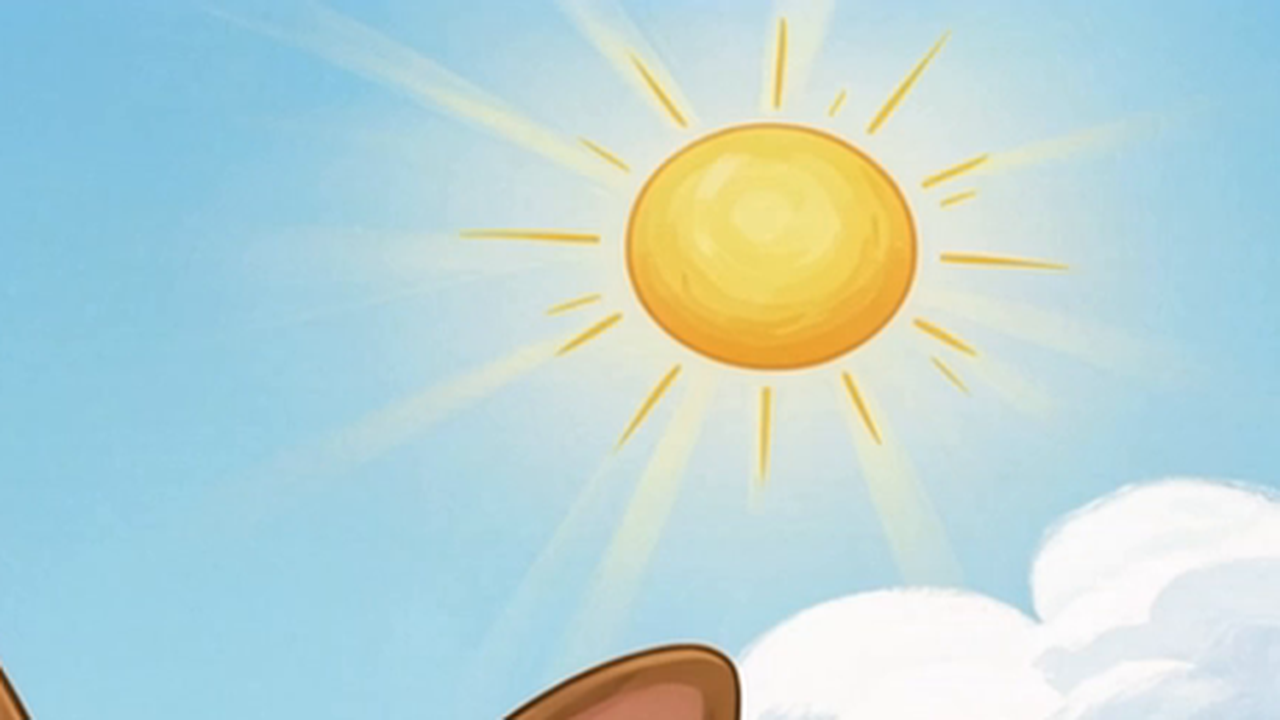
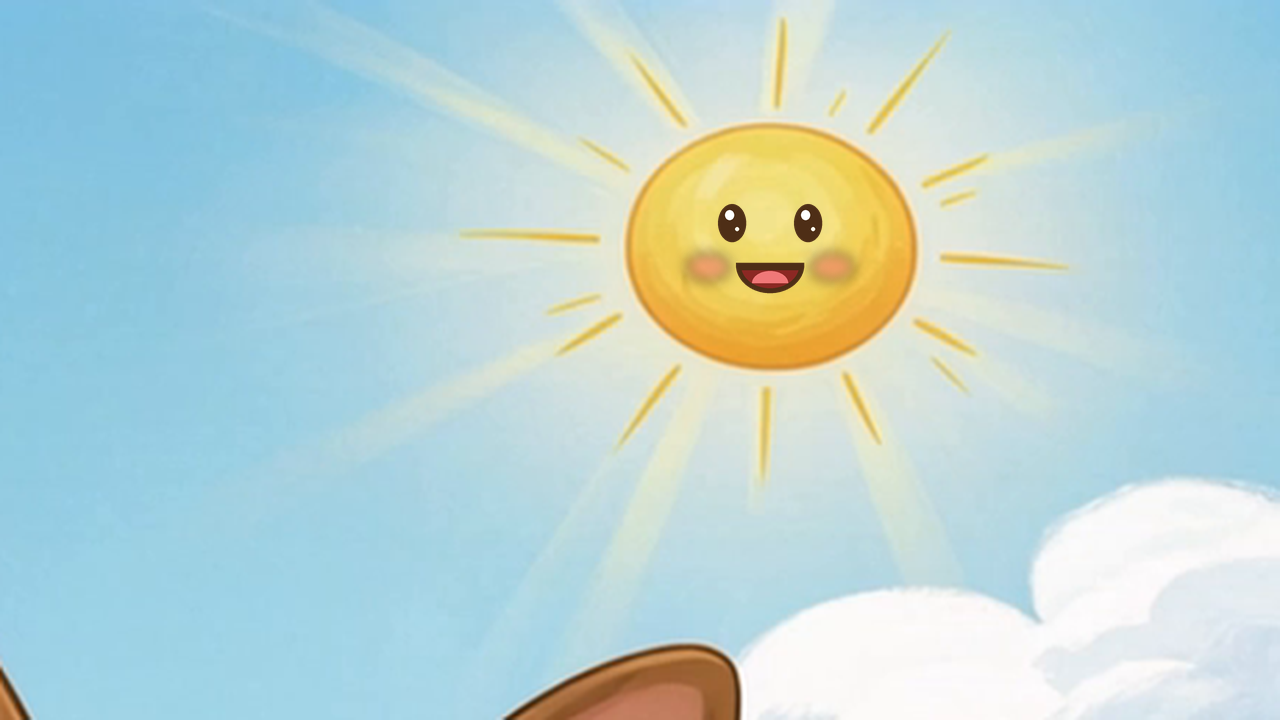
Sol start frames with a drawn cartoon face (day and sunset)
Claude-Session: https://claude.ai/code/session_016ZHPV2PkvWmVK4iqjR7WVX

Changed region(s): [[0.5312, 0.275, 0.6875, 0.4278]]

diff --git a/channel/episode-01-pio-pio-pajarito/ANIMATION-PLAN.md b/channel/episode-01-pio-pio-pajarito/ANIMATION-PLAN.md
@@ -7,10 +7,10 @@ Kling: 5-second video at 720p = **50 credits**. Every video uses a **free start 
 
 | # | Part of the episode | Start frame | Prompt (paste in Kling → Image to video) |
 |---|---|---|---|
-| 1 | ☀ Sol welcome (part 1) | `start-sol-narrator.png` | In the bright blue sky, a cute cartoon face appears on the sun: big friendly eyes, rosy cheeks and a smiling mouth. The sun looks at the viewers and talks happily, its mouth moving as it speaks, blinking and smiling, its soft golden rays gently swaying. Static shot. Children's storybook illustration style, hand-painted gouache and colored pencil texture, warm soft lighting. |
+| 1 | ☀ Sol welcome (part 1) | `start-sol-narrator.png` | The friendly sun with its cute cartoon face looks at the viewers and talks happily, its mouth moving as it speaks, blinking and smiling, its soft golden rays gently swaying. Static shot. Children's storybook illustration style, hand-painted gouache and colored pencil texture, warm soft lighting. |
 | 2 | ☀ Sol welcome (part 2) | last frame of video 1 | The sun with its cute cartoon face keeps talking happily to the viewers, its mouth moving as it speaks, blinking its big kind eyes and nodding, its golden rays gently swaying. Static shot. (same style text) |
 | 3 | 👩⚕ Rosa talks to Oryx and Luna | `start-v6-rosa-talks.png` | Rosa smiles warmly and talks kindly to Oryx and Luna, nodding her head, and then gives them a gentle thumbs up. Oryx and Luna listen to her, happy and proud. The gray baby bird stays calmly on the grass. Static shot. (same style text) |
-| 4 | 🌅 Sol goodbye at sunset | `start-sol-narrator.png` | The sky slowly turns warm orange and pink like a sunset, and a cute cartoon face appears on the sun: big friendly eyes, rosy cheeks and a smiling mouth. The sun talks softly to the viewers, its mouth moving as it speaks, then waves goodbye with one ray and gently closes its eyes to sleep. Static shot. (same style text) |
+| 4 | 🌅 Sol goodbye at sunset | `start-sol-sunset.png` | In the warm orange sunset sky, the friendly sun with its cute cartoon face talks softly to the viewers, its mouth moving as it speaks, then waves goodbye with one ray and gently closes its eyes to sleep. Static shot. (same style text) |
 | 5 | 🌳 Walk in the park | `start-park-oryx-luna.png` | Oryx crouches and gently touches the soft green grass with wonder, then looks at Luna and talks; Luna wags her tail and answers. Static shot. (same style text) |
 | 6 | 🦖 "¡RAWR!" | last frame of video 5 | Oryx jumps with joy, makes a playful dinosaur roar with little claw hands and wiggles his dinosaur tail; Luna barks happily. Static shot. (same style text) |
 | 7 | 🛸 Opening: Oryx arrives | last frame of the saucer clip | Oryx floats down gently in the yellow light beam of the flying saucer and lands on the grass next to Luna; both wave happily at the viewers. Static shot. (same style text) |

diff --git a/channel/shared/characters-and-style.md b/channel/shared/characters-and-style.md
@@ -50,7 +50,7 @@ The friendly sun in the sky is the **narrator** of every episode, with the creat
   to sleep — just like Oryx at the end. We use Sol (not the moon) so kids don't confuse the moon
   with Luna the chihuahua.
 - Look: the same round golden sun with soft rays from the episode images, with big kind eyes,
-  rosy cheeks and a warm smile. Start frame: `../episode-01-pio-pio-pajarito/start-frames/start-sol-narrator.png`.
+  rosy cheeks and a warm smile. Start frames (with the face already drawn): `../episode-01-pio-pio-pajarito/start-frames/start-sol-narrator.png` (day) and `start-sol-sunset.png` (sunset).
 
 ## 👩⚕ Rosa, the veterinarian (episode 1)
 Kind young woman, long brown hair, white veterinarian coat over a light blue shirt, blue gloves
